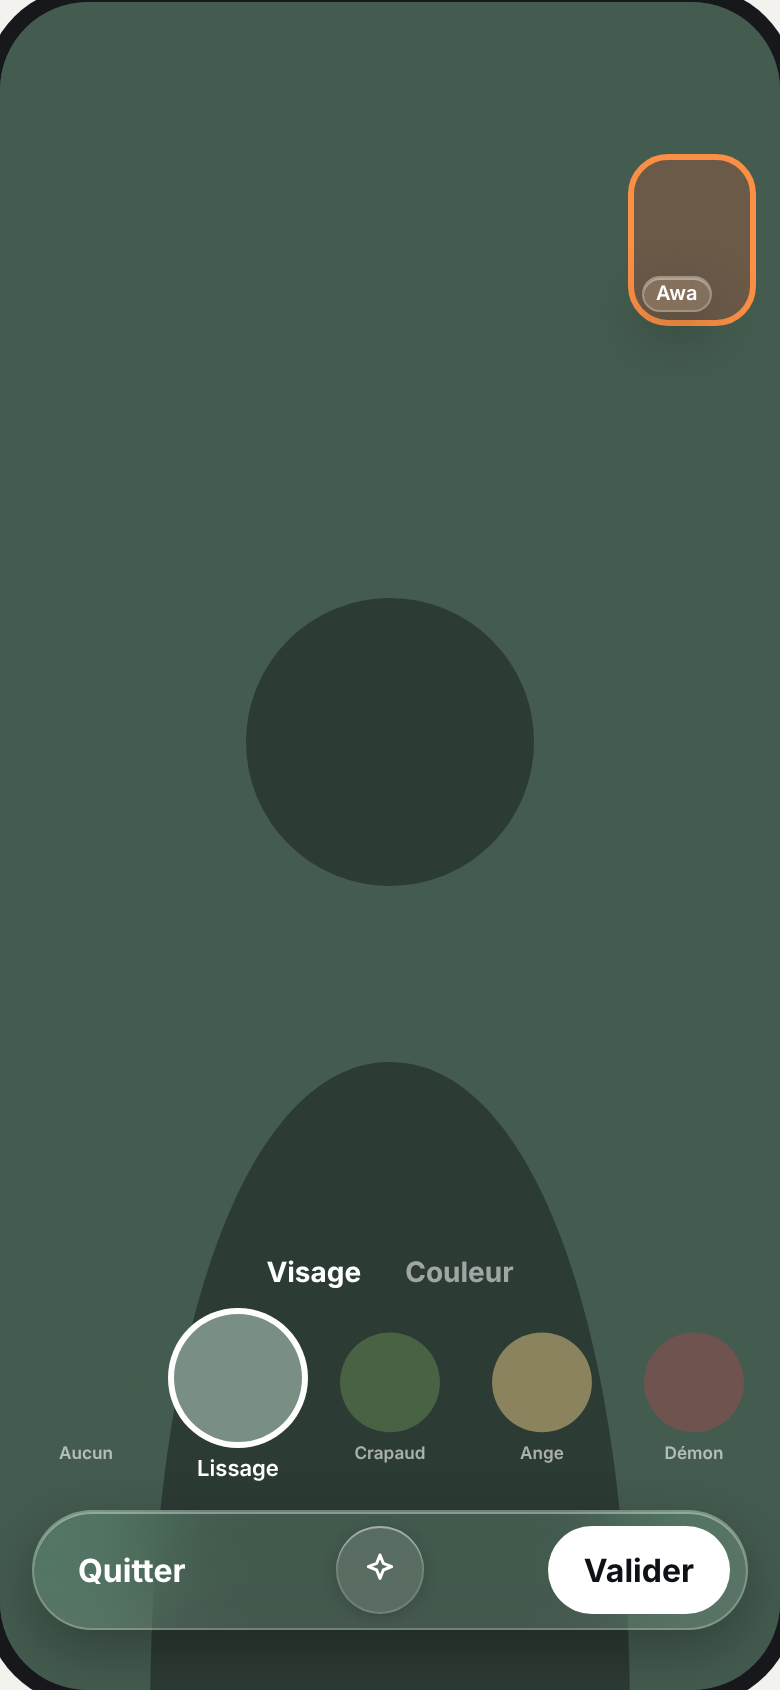
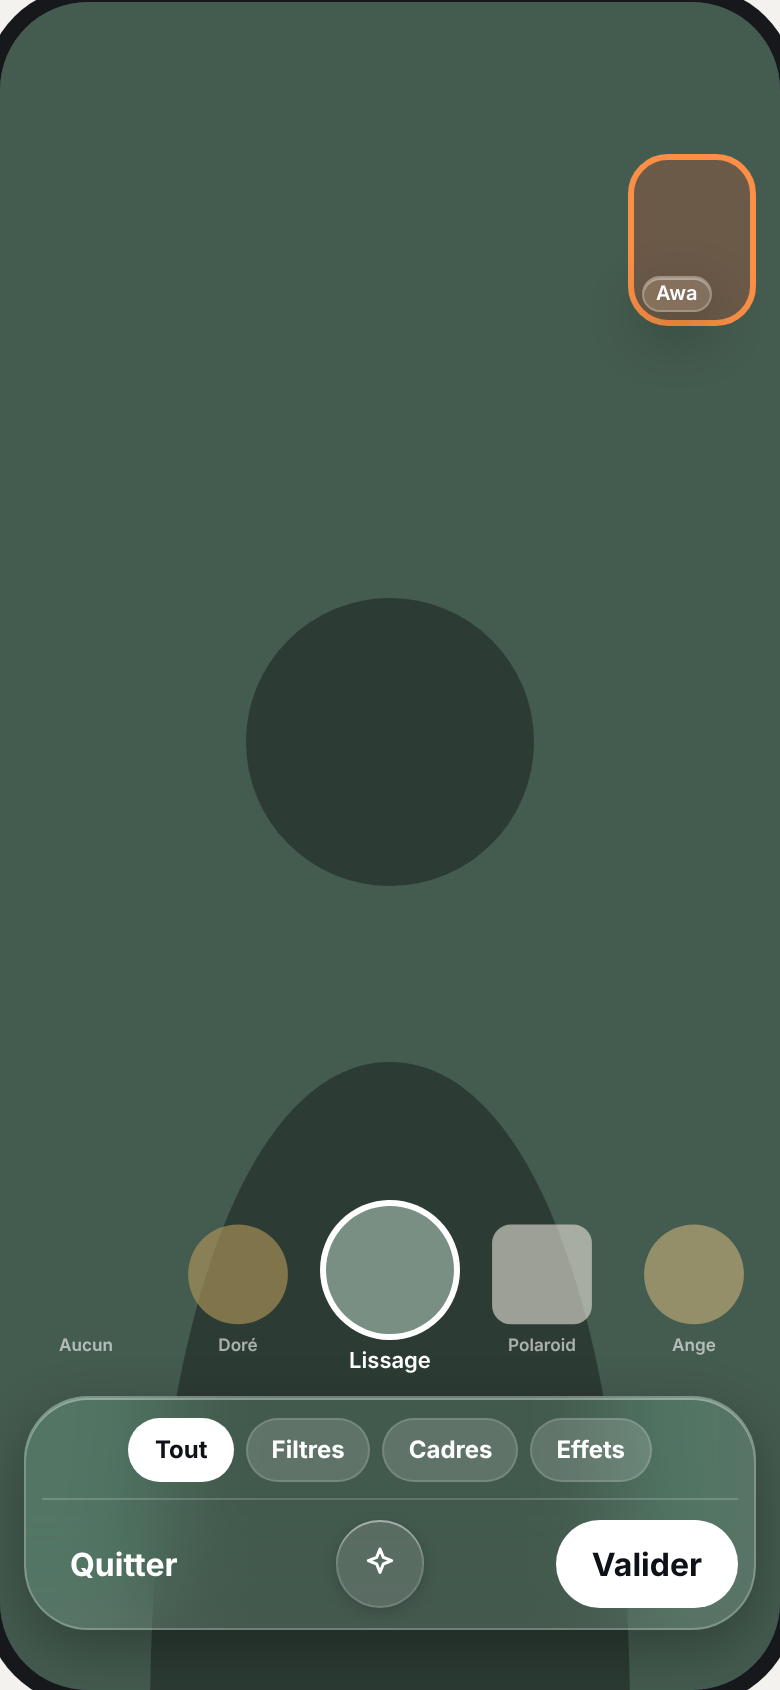
docs(appels): rien n'apparaît d'un coup, rien n'est recréé ni ajouté, et Effets emprunte les looks du composer
La planche gagne les lois 17 (mouvement : rails par le bord de l'écran, barre du bas
par morphisme) et 18 (simplicité, réemploi, verre adaptatif partout) ; la vue P8 montre
les looks en surimpression et les puces de tri dans la barre du bas. Le workflow de
conformité injecte ces règles dans les passes Cohérence, Développer et Intégrer, et
accepte un argument consignes.

Closes #17406

Claude-Session: https://claude.ai/code/session_017ZypwtA3FFaNcUq8pdER8u

Changed region(s): [[0.0308, 0.7077, 0.9846, 0.9538]]

diff --git a/docs/product/appels-vue-finale/planche.html b/docs/product/appels-vue-finale/planche.html
@@ -138,7 +138,7 @@ const S=[
 {id:'P5',t:'Toucher une phrase : l’original',d:'La phrase touchée déplie son original dessous, en encre secondaire. Retoucher le replie.',html:phone(scene()+head('Awa · 04:12')+self()+caps([T('awa','Tu m’entends bien ? Le son coupait tout à l’heure.',{tag:'EN → FR',orig:'Can you hear me? The sound kept cutting out earlier.'}),T('moi','Oui, c’est net maintenant.')]))},
 {id:'P6',t:'Journal pendant l’appel',d:'« Journal » ouvre TOUT l’appel, rien de tronqué : qui (sa couleur), quand, la phrase servie, l’original sous la phrase qu’on touche. Il s’ouvre DANS la pilule, à la place des sous-titres, et défile librement ; « Revenir au direct » quand on a remonté.',html:phone(scene()+head('Awa · 04:12')+self()+journalPill(J,{live:true}))},
 {id:'P7',t:'Micro coupé',d:'Le micro barré passe en disque blanc. Micro coupé = ma parole n’est plus transcrite (#8475).',html:phone(scene()+head('Awa · 04:12')+self()+pill({micOff:true}))},
-{id:'P8',t:'Effets de ma caméra',d:'« Effets » met MA caméra en plein écran, les autres en bandeau, les sous-titres restent. Onglets Visage · Couleur, carrousel (le choix à pleine taille, les voisins plus petits), puis Quitter (rend mon image d’avant) · Réglages · Valider. Pas d’effets de voix (#8050). Un mode libère l’écran : l’en-tête se masque (#8578).',html:phone(`<div style="position:absolute;inset:0;background:#445B4F"></div><svg style="position:absolute;left:75px;top:260px" width="240" height="600" viewBox="0 0 240 600" aria-hidden="true"><circle cx="120" cy="110" r="72" fill="#2c3b33"/><path d="M0 600c0-200 50-330 120-330s120 130 120 330z" fill="#2c3b33"/></svg>`+`<div style="position:absolute;right:12px;top:76px;display:flex;flex-direction:column;gap:6px"><div class="tile" style="width:64px;height:86px;padding:4px;background:#6B5A48;border-color:var(--awa)"><span class="name glass" style="font-size:10px;padding:2px 6px">Awa</span></div></div><div style="position:absolute;left:0;right:0;bottom:200px;display:flex;justify-content:center;gap:22px;font-size:14px;font-weight:700"><span>Visage</span><span style="opacity:.55">Couleur</span></div><div style="position:absolute;left:0;right:0;bottom:104px;display:flex;justify-content:center;align-items:center;gap:12px">${['Aucun','Lissage','Crapaud','Ange','Démon'].map((n,i)=>`<div style="display:flex;flex-direction:column;align-items:center;gap:6px;transform:scale(${i===1?1:.78});opacity:${i===1?1:.6}"><span style="width:64px;height:64px;border-radius:50%;background:${['#445B4F','#7a8f84','#5d7d4e','#c9b37a','#8a4e4e'][i]};${i===1?'box-shadow:0 0 0 3px #fff;':''}"></span><span style="font-size:11px;font-weight:600">${n}</span></div>`).join('')}</div><div class="glass" style="position:absolute;left:16px;right:16px;bottom:30px;height:60px;border-radius:30px;display:flex;justify-content:space-between;align-items:center;padding:0 8px"><span style="padding:0 14px;font-weight:700">Quitter</span>${B('effects','Réglages','soft')}<span style="height:44px;padding:0 18px;border-radius:22px;background:#fff;color:#0E1117;font-weight:700;display:flex;align-items:center">Valider</span></div>`)},
+{id:'P8',t:'Effets de ma caméra',d:'« Effets » emprunte au composer (#17406). MA caméra passe en plein écran, les autres en bandeau, les sous-titres restent. Les looks (filtres, cadres, effets) se choisissent en surimpression sur l’image : la case au centre est choisie, à pleine taille, les voisines plus petites. La barre du bas grandit par morphisme et porte les puces qui trient les looks (Tout · Filtres · Cadres · Effets), puis Quitter (rend mon image d’avant) · Réglages · Valider. Pas d’effets de voix (#8050). Un mode libère l’écran : l’en-tête se masque (#8578).',html:phone(`<div style="position:absolute;inset:0;background:#445B4F"></div><svg style="position:absolute;left:75px;top:260px" width="240" height="600" viewBox="0 0 240 600" aria-hidden="true"><circle cx="120" cy="110" r="72" fill="#2c3b33"/><path d="M0 600c0-200 50-330 120-330s120 130 120 330z" fill="#2c3b33"/></svg>`+`<div style="position:absolute;right:12px;top:76px;display:flex;flex-direction:column;gap:6px"><div class="tile" style="width:64px;height:86px;padding:4px;background:#6B5A48;border-color:var(--awa)"><span class="name glass" style="font-size:10px;padding:2px 6px">Awa</span></div></div><div style="position:absolute;left:0;right:0;bottom:158px;display:flex;justify-content:center;align-items:center;gap:12px">${['Aucun','Doré','Lissage','Polaroid','Ange'].map((n,i)=>`<div style="display:flex;flex-direction:column;align-items:center;gap:6px;transform:scale(${i===2?1:.78});opacity:${i===2?1:.6}"><span style="width:64px;height:64px;border-radius:${i===3?'12px':'50%'};background:${['#445B4F','#b89a5a','#7a8f84','#e9e4d8','#c9b37a'][i]};${i===2?'box-shadow:0 0 0 3px #fff;':''}"></span><span style="font-size:11px;font-weight:600">${n}</span></div>`).join('')}</div><div class="glass" style="position:absolute;left:12px;right:12px;bottom:30px;border-radius:32px;padding:10px 8px 8px;display:flex;flex-direction:column;gap:8px"><div role="group" aria-label="Trier les looks" style="display:flex;justify-content:center;gap:6px">${['Tout','Filtres','Cadres','Effets'].map((n,i)=>`<span style="height:32px;padding:0 13px;border-radius:16px;font-size:12px;font-weight:700;display:flex;align-items:center;${i===0?'background:#fff;color:#0E1117':'background:rgba(255,255,255,.16);box-shadow:inset 0 0 0 1px rgba(255,255,255,.14)'}">${n}</span>`).join('')}</div><div style="height:1px;background:rgba(255,255,255,.18)"></div><div style="display:flex;justify-content:space-between;align-items:center;height:48px"><span style="padding:0 14px;font-weight:700">Quitter</span>${B('effects','Réglages','soft')}<span style="height:44px;padding:0 18px;border-radius:22px;background:#fff;color:#0E1117;font-weight:700;display:flex;align-items:center">Valider</span></div></div>`)},
 {id:'P8b',t:'Effets : réglages',d:'« Réglages » remplace le carrousel par Luminosité et Flou du fond.',html:phone(`<div style="position:absolute;inset:0;background:#445B4F"></div><svg style="position:absolute;left:75px;top:260px" width="240" height="600" viewBox="0 0 240 600" aria-hidden="true"><circle cx="120" cy="110" r="72" fill="#2c3b33"/><path d="M0 600c0-200 50-330 120-330s120 130 120 330z" fill="#2c3b33"/></svg>`+`<div class="glass deep" style="position:absolute;left:16px;right:16px;bottom:104px;border-radius:24px;padding:14px 16px;display:flex;flex-direction:column;gap:14px"><label style="display:flex;flex-direction:column;gap:8px;font-size:13px;font-weight:600">Luminosité<span style="height:6px;border-radius:3px;background:linear-gradient(90deg,#fff 62%,rgba(255,255,255,.25) 62%)"></span></label><label style="display:flex;justify-content:space-between;align-items:center;font-size:13px;font-weight:600">Flou du fond<span style="width:50px;height:30px;border-radius:15px;background:#34C759;position:relative"><i style="position:absolute;right:3px;top:3px;width:24px;height:24px;border-radius:50%;background:#fff"></i></span></label></div><div class="glass" style="position:absolute;left:16px;right:16px;bottom:30px;height:60px;border-radius:30px;display:flex;justify-content:space-between;align-items:center;padding:0 8px"><span style="padding:0 14px;font-weight:700">Quitter</span>${B('effects','Réglages','on')}<span style="height:44px;padding:0 18px;border-radius:22px;background:#fff;color:#0E1117;font-weight:700;display:flex;align-items:center">Valider</span></div>`)},
 ]},
 {h:'Duo audio, portrait',lead:'Sans vidéo, la personne au centre ; mêmes rails, même pilule. « Caméra » dans le rail gauche bascule l’appel en vidéo.',b:[

diff --git a/.claude/workflows/meeshy-conformite-vues.js b/.claude/workflows/meeshy-conformite-vues.js
@@ -52,6 +52,7 @@ const DEV_PAR = entier(A.devPar, 2, 3)
 const MAX_FIX = entier(A.maxFix, 3, 6)
 const SEULEMENT = Array.isArray(A.seulement) && A.seulement.length ? new Set(A.seulement) : null
 const SAUTER = new Set(Array.isArray(A.sauter) ? A.sauter : [])
+const CONSIGNES = texte(A.consignes, '').slice(0, 4000)
 
 const PLATEFORMES = {
   ios: {
@@ -113,6 +114,20 @@ PREUVE : un verdict porte un fichier et une ligne lus par toi dans ${REF}. Tu n'
 un écran allumé peut dire (un rendu, un fondu, une taille) se rend « indetermine », avec la capture ou le geste à rejouer sur simulateur.
 GITHUB : outils MCP mcp__github__* chargés par ToolSearch ; la CLI gh ne sert qu'à la recherche
 (gh api -X GET search/issues -f q='repo:${GH} …' --jq '.items[]|"\\(.number) \\(.state) \\(.title)"').`
+
+const FACTURE = `FACTURE (directive porteur du 2026-11-10, #17406) — elle vaut pour toute planche, et un diff qui l'enfreint n'est pas prêt :
+- NE RECRÉE RIEN. Avant d'écrire un composant, une loi, un texte ou une icône, cherche celui qui existe (grep dans les racines de la plateforme,
+  le kit partagé, le design system) : tu le réutilises ou tu l'étends. Un jumeau neuf d'un composant existant est un écart, pas une livraison.
+- LE VERRE EST L'ATOME ADAPTATIF, PARTOUT : iOS adaptiveLiquidGlass (Liquid Glass quand l'OS le permet, verre dessiné sinon), Android
+  MeeshyGlassSurface, web la surface de verre partagée. Aucun verre dessiné à la main dans une vue, aucun matériau système posé à côté.
+- SIMPLICITÉ : la vue affiche ce que la planche dessine, rien en plus. Ni libellé, ni badge, ni bouton, ni panneau d'appoint ; ce que le code
+  porte en plus et que la planche ne montre pas se signale au porteur, il ne s'ajoute pas et ne se retire pas en silence.
+- RIEN N'APPARAÎT NI NE DISPARAÎT D'UN COUP. Un élément arrive depuis l'endroit d'où il vient et repart vers lui : un rail latéral entre par
+  le bord de l'écran et sort par lui ; une option de la barre du bas s'ouvre par MORPHISME, la même barre s'allonge et grandit pour la
+  contenir, puis reprend sa forme ; tout ce qui se pose par-dessus suit la même règle, sauf si la planche écrit autre chose pour une vue.
+  L'animation ne touche que la transformation et l'opacité, ne perd aucune image, reste interruptible (un bouton touché pendant le
+  mouvement répond), et « Réduire les animations » la remplace par un fondu court.${CONSIGNES ? `
+CONSIGNES DE CE PASSAGE (données par la session qui lance, elles s'ajoutent sans rien retirer) : ${CONSIGNES}` : ''}`
 
 const ECRITURE = (cle, plateforme) => `CLONE PRIVÉ : D=${LOTS}/${cle} ; s'il n'existe pas :
 git clone -q --shared --no-checkout ${REPO} "$D" && cd "$D" && git remote set-url origin https://github.com/${GH} && git fetch -q origin ${BASE}
@@ -199,6 +214,8 @@ MISSION — INVENTORIER LA PLANCHE (${REF}/${PLANCHE}), sans juger.
 - references : les fichiers que la planche déclare faire autorité avec elle (modèles, autres planches, fichiers de consignes d'agents).`
 
 const coherencePrompt = (famille, inventaire) => `${SOCLE}
+${FACTURE}
+Chaque vue qui fait apparaître ou disparaître un élément reçoit une clause sur la manière dont il arrive et repart.
 MISSION — COHÉRENCE ET CONTRAT de la famille « ${famille.nom} ». Vues : ${JSON.stringify(famille.vues)}
 Lois de la planche : ${JSON.stringify(inventaire.regles)} ; références : ${JSON.stringify(inventaire.references)}.
 1. Lis la planche en entier, puis OUVRE chaque capture de la famille (outil Read sur le PNG) et décris-toi ce qu'elle montre.
@@ -284,6 +301,7 @@ labels ["décision-produit"], assignees ["jcnm"]${MILESTONE ? `, milestone ${MIL
 
 const developperPrompt = (lot, ecarts, issue, reference) => `${SOCLE}
 ${ECRITURE(lot.cle, lot.plateforme)}
+${FACTURE}
 MISSION — RENDRE CONFORMES les clauses du lot « ${lot.cle} » sur ${PLATEFORMES[lot.plateforme].nom} (issue #${issue}). ${contexteLot(lot, ecarts)}
 ${reference ? `Ce lot REPRODUIT le lot ${PLATEFORMES[REFERENCE].nom} déjà livré : ${JSON.stringify(reference).slice(0, 3000)}. Lis son diff (git fetch origin ${reference.branche || BASE}) et
 reprends ses décisions, ses noms de lois et l'intention de ses témoins ; transpose seulement ce que la plateforme impose.` : ''}
@@ -296,13 +314,15 @@ cede=true si une autre session tient ces fichiers (alors pushed=false).`
 
 const integrerPrompt = (lot, ecarts, issue, dev) => `${SOCLE}
 ${ECRITURE(lot.cle, lot.plateforme)}
+${FACTURE}
 MISSION — INTÉGRER le lot « ${lot.cle} » (issue #${issue}, branche ${brancheLot(lot)}). Rendu du développement : ${JSON.stringify(dev).slice(0, 3000)}
 ${contexteLot(lot, ecarts)}
 1. git fetch origin ${BASE} ${brancheLot(lot)} ; git merge origin/${BASE} ; résous chaque conflit en gardant les deux sémantiques (fichier généré : régénère).
 2. CONFLITS À VENIR : pour chaque PR ouverte vers ${BASE} qui touche un fichier du lot (gh api search, puis pull_request_read get_files),
    git merge-tree contre sa branche ; un conflit réel se note dans remarques avec le numéro de la PR.
 3. RELIS TOUT LE DIFF (git diff origin/${BASE}...HEAD) contre les clauses et les captures : chaque clause est tenue, rien n'est sorti du périmètre,
-   aucun témoin affaibli, aucune loi réécrite à côté de sa source, budgets de taille tenus. Corrige toi-même ce qui manque, en TDD.
+   aucun témoin affaibli, aucune loi réécrite à côté de sa source, budgets de taille tenus, et la FACTURE est tenue point par point
+   (rien de recréé, verre adaptatif, rien en plus, chaque apparition et chaque sortie en mouvement). Corrige toi-même ce qui manque, en TDD.
 4. Gardes locales, push. PR vers ${BASE} en BROUILLON (mcp__github__create_pull_request, ou celle qui existe pour cette tête). Corps :
    ${A.enTetePr ? `ces deux premières lignes, telles quelles : ${A.enTetePr} ; puis ` : ''}Closes #${issue}, les clauses tenues, les fichiers, les miroirs touchés, ce qui reste à rejouer sur simulateur.
 pret=false si le lot ne tient pas ses clauses malgré tes corrections (dis pourquoi dans remarques).`

diff --git a/docs/product/appels-vue-finale.md b/docs/product/appels-vue-finale.md
@@ -56,6 +56,7 @@
      - le journal survit à l'appel réduit, aux sous-titres coupés et à une reconnexion.
 8. **Micro coupé = ma parole n'est plus transcrite** (#8475).
 9. **Effets = filtres vidéo et flou d'arrière-plan, sans effets de voix** (#8050).
+   - **Effets emprunte au composer** (directive porteur du 2026-11-10, #17406) : les filtres, les cadres et les effets sont des LOOKS, choisis en surimpression sur mon image, dans la bande du composer (`ComposerLookStrip`), et les puces qui les trient (`ComposerLookFilterChips` : Tout · Filtres · Cadres · Effets) apparaissent dans la barre du bas (P8). L'appel ne recrée ni la bande, ni les puces, ni le catalogue.
 10. **L'écran partagé de quelqu'un d'autre passe à la une tout seul.** La caméra de celui qui partage passe en médaillon, au liseré de sa couleur.
 
 11. **Un toucher n'importe où sur l'image range tout, un autre toucher rend tout** (#16663).
@@ -73,9 +74,9 @@
     - L'enregistrement demande l'accord de tous, sur une carte qui ne se cache jamais, et le journal note son début et sa fin.
     - **Contrat (#16665), rétrocompatible.** `call:screen-capture-detected` porte un `kind` optionnel, `recording` (enregistrement d'écran, `isCapturing` vrai puis faux) ou `screenshot` (capture ponctuelle, `isCapturing` vrai seul). Un `kind` absent se lit `recording`, ce qu'envoient les clients d'avant. La passerelle relaie `kind` dans `call:screen-capture-alert`. Elle persiste chaque DÉBUT (`isCapturing` vrai) dans `CallCaptureEvent` (`callSessionId`, `participantId`, `userId?`, `kind`, `offsetMs`, `createdAt`), au plus une ligne par participant, par sorte et par fenêtre de 5 s. L'enregistrement CONSENTI de l'appel (`call:recording-started` / `call:recording-stopped`, aucun fil client nouveau) s'y écrit aussi, par la passerelle là où elle diffuse ces deux événements : `kind` vaut `call-recording-started` (au nom de l'enregistreur) ou `call-recording-stopped` (seulement s'il avait commencé ; `participantId` et `userId` nuls quand personne ne l'a demandé : fin d'appel, délai, arrivée). `GET /calls/:callId/transcript` ajoute `captures: [{ id, participantId, userId, displayName, kind, offsetMs, at }]` à côté de `segments` (les trois champs d'auteur peuvent être nuls pour un arrêt d'enregistrement ; une sorte inconnue s'ignore). Les clients insèrent ces lignes à leur heure, dans le journal vivant comme dans celui d'après l'appel : « Awa a capturé l'écran » ou « Awa enregistre l'écran », « L'enregistrement de l'appel a commencé » ou « L'enregistrement de l'appel s'est arrêté », en encre secondaire, sans couleur d'auteur sur la phrase (le pseudo garde la sienne).
 14. **Options en surimpression.**
-    - Une option à réglages (Enregistrer, Réagir) s'ouvre DANS la pilule, qui grandit vers le haut avec ‹ Retour et Fermer.
+    - Une option à réglages (Enregistrer, Réagir) s'ouvre DANS la pilule, par morphisme : la même barre s'allonge et grandit pour la contenir, avec ‹ Retour et Fermer, puis reprend sa forme (loi 17). C'est la même barre agrandie qui porte les sous-titres et le journal.
     - « Participants » s'ouvre en feuille ; « Journal » s'ouvre dans la pilule (loi 7).
-    - Effets et Montage sont des modes plein écran avec Quitter · Réglages · Valider ; « Quitter » rend mon image d'avant. Un mode libère l'écran : l'en-tête se masque (#8578, confirmé par le porteur le 2026-11-09, #17344).
+    - Effets et Montage sont des modes plein écran avec Quitter · Réglages · Valider, et leur choix se fait dans les looks du composer (loi 9) ; « Quitter » rend mon image d'avant. Un mode libère l'écran : l'en-tête se masque (#8578, confirmé par le porteur le 2026-11-09, #17344).
 15. **À la une.**
     - Toucher une vignette la met à la une, choix local jamais imposé. Si les contrôles sont cachés, le toucher les rend d'abord.
     - La vignette à la une n'a pas de badge : une capsule en haut à droite offre « Revenir à la grille » et « Plein écran ».
@@ -85,6 +86,16 @@
     - Je choisis un cadre dans Montage (ambiances, carrousel, déclinaisons par balayage vertical, option « Cadre »). Il s'applique chez moi et se PROPOSE à l'autre (« Non merci » · « Appliquer »).
     - Le proposeur apprend la réponse en une capsule.
     - Le cadre tombe si l'appel passe à trois.
+17. **Rien n'apparaît ni ne disparaît d'un coup** (directive porteur du 2026-11-10, #17406).
+    - Un élément arrive depuis l'endroit d'où il vient, et repart vers lui.
+    - Les rails latéraux entrent par le bord de l'écran et sortent par lui, vers l'extérieur.
+    - Ce qui s'ouvre depuis la barre du bas (options, sous-titres, journal, rangées d'actions en groupe) s'ouvre par morphisme : la barre s'allonge et grandit, puis reprend sa forme.
+    - Tout ce qui se pose par-dessus l'image suit la même logique. Seule exception : Effets, qui emprunte au composer (loi 9).
+    - Le mouvement ne perd aucune image, reste interruptible (loi 11) et « Réduire les animations » le remplace par un fondu court.
+18. **Simplicité : la vue affiche ce qu'elle dessine, rien en plus** (directive porteur du 2026-11-10, #17406).
+    - Aucun extra : ni libellé, ni badge, ni bouton, ni panneau d'appoint que la vue ne montre pas.
+    - Rien de ce qui existe ne se recrée : un lot réutilise ou étend le composant, la loi et le texte déjà là.
+    - Le verre est partout l'atome adaptatif (`adaptiveLiquidGlass` sur iOS, `MeeshyGlassSurface` sur Android, la surface de verre partagée sur le web).
 
 ## Les vues
 
@@ -217,5 +228,6 @@ Ce tableau est un compte rendu daté. L'état vivant est dans les issues du mile
 - Les deux files d'agents en cours ont reçu leur direction :
   - routine « calling agent » (passerelle et web) : `docs/engineering/calling-agent/STATE.md` ;
   - routine « vue d'appel » iOS : `apps/ios/tasks/routine-appels.md`.
+- Ne rien recréer, ne rien ajouter que la vue ne dessine, verre adaptatif partout, et chaque apparition comme chaque sortie en mouvement (lois 17 et 18).
 - Quand la planche change, régénérer les captures (`capture.mjs`) dans le même commit.
 - La conformité de chaque vue se relève par le workflow `.claude/workflows/meeshy-conformite-vues.js` (#17311, mode d'emploi dans le `.md` voisin) : contrat de clauses par vue, audit iOS puis Android, écarts avec fichier et ligne.

diff --git a/.claude/workflows/meeshy-conformite-vues.md b/.claude/workflows/meeshy-conformite-vues.md
@@ -53,7 +53,9 @@ Un périmètre réduit, puis la livraison :
   "attribution": "Co-Authored-By: …\nClaude-Session: …" }
 ```
 
-Arguments : `planche`, `plateformes` (défaut `["ios","android"]`, la première est la référence), `mode`, `grain`, `seulement`, `sauter`, `chantier`, `milestone`, `attribution`, `enTetePr`, `date`, `run`, `base`, `devPar`, `maxFix`.
+Arguments : `planche`, `plateformes` (défaut `["ios","android"]`, la première est la référence), `mode`, `grain`, `seulement`, `sauter`, `chantier`, `milestone`, `attribution`, `enTetePr`, `date`, `run`, `base`, `devPar`, `maxFix`, `consignes`.
+
+**La facture** (directive porteur du 2026-11-10, #17406) est injectée dans les passes Cohérence, Développer et Intégrer, pour toute planche : ne rien recréer de ce qui existe ; le verre adaptatif de la plateforme partout (`adaptiveLiquidGlass`, `MeeshyGlassSurface`, la surface de verre du web) ; la vue affiche ce que la planche dessine, rien en plus ; rien n'apparaît ni ne disparaît d'un coup (un rail entre et sort par le bord de l'écran, une option de la barre du bas s'ouvre par morphisme de la barre). `consignes` (texte libre, 4 000 caractères au plus) ajoute les règles propres à un passage, sans rien retirer.
 
 ## Limites
 
